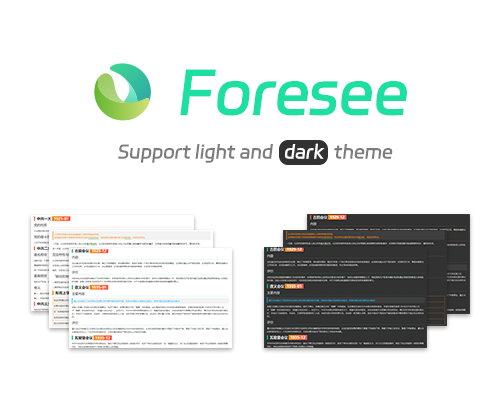
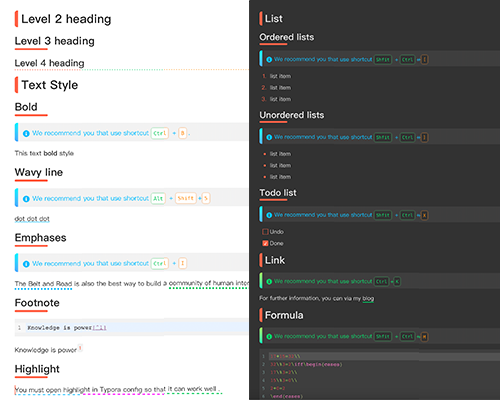
update Foresee Theme

diff --git a/_posts/theme/2023-12-04-Foresee.md b/_posts/theme/2023-12-04-Foresee.md
@@ -10,47 +10,27 @@ typora-root-url: ../../
 typora-copy-images-to: ../../media/theme/foresee
 ---
 
->此主题仅在Windows下设计和测试，在其他操作系统上的效果未知！
+>🇨🇳 此主题已在Mac和Windows平台上测试，支持浅色和深色模式<br>🇬🇧 This theme has been tested on Mac and Windows platforms,it supports light and dark mode
 
 # Typora foresee theme
 
[2 lines of base64/hex data omitted]
 
 ![](https://user-images.githubusercontent.com/90091016/271819148-aa5cd28e-6876-4729-9865-e29001e1147c.png)中文  |   ![](https://user-images.githubusercontent.com/90091016/271819155-72fe5b24-cd1c-4ceb-a32d-e559dbcaea63.png)[English](https://github.com/passwordgloo/Typora-foresee-theme/blob/study/Readme.md)
 
-## 感谢
+基于默认主题`night`修改
 
 选中样式受 [typora-dyzj-theme](https://github.com/muggledy/typora-dyzj-theme) 启发
 
-## 如何使用
-
-1. 克隆仓库,或者[下载压缩包](https://github.com/passwordgloo/Typora-foresee-theme/archive/refs/heads/study.zip)
-2. Typora依次打开菜单>主题，点击按钮`打开主题文件夹`
-3. 复制粘贴到Typora主题文件夹
-
-![9](https://github.com/passwordgloo/Typora-foresee-theme/assets/90091016/bd50a7be-217a-403a-bb6b-f8982fe38e17)
-![10](https://github.com/passwordgloo/Typora-foresee-theme/assets/90091016/d3c5bcae-bc1e-4f6d-b6a3-167a22ce0264)
-![11](https://github.com/passwordgloo/Typora-foresee-theme/assets/90091016/aa77d347-c6fe-4a54-b438-c3eabc0bad7e)
-![12](https://github.com/passwordgloo/Typora-foresee-theme/assets/90091016/8e9ded2c-f2de-45fb-8a25-e8bf11bdb7f4)
-![13](https://github.com/passwordgloo/Typora-foresee-theme/assets/90091016/966859b1-c8d4-4467-81b0-b50e5c180a65)
-![14](https://github.com/passwordgloo/Typora-foresee-theme/assets/90091016/d861568c-2f03-4dcd-b35d-85c2a184dcc6)
-![15](https://github.com/passwordgloo/Typora-foresee-theme/assets/90091016/053e137a-9865-4a95-9043-d69ef4338293)
-![16](https://github.com/passwordgloo/Typora-foresee-theme/assets/90091016/a8ea2431-cc1e-41de-b34c-b0321752a343)
-
-
-## 预览
-
-### 浅色模式
-
-![](https://user-images.githubusercontent.com/90091016/271819047-8310cd64-8baf-4310-a273-85c8a51d6305.png)
-
-### 深色模式
-
-![](https://user-images.githubusercontent.com/90091016/271819107-cd27fc6a-b813-41f0-b685-815630513b35.png)
+## 新功能
+- 引用块样式支持渐变色
+- 重新调整标题样式，添加专注模式下标题样式
+- 使用 `scss` 优化原先的 `css`
+- 在文件夹`badge`友情提供小图标
 
 ## 个性化
 
-修改XXX-light(dark).css文件中代码以获得个性化体验
+修改XXX-light(dark).css文件颜色代码制作自己的专属配色
 
 ```css
 :root {
@@ -68,6 +48,26 @@ typora-copy-images-to: ../../media/theme/foresee
     --font-family: "Microsoft YaHei", "Arial", "sans-serif";
 }
 ```
+
+## 如何使用
+
+1. 克隆仓库,或者[下载压缩包](https://github.com/passwordgloo/Typora-foresee-theme/archive/refs/heads/study.zip)，国内用户访问不畅可通过[镜像网站](https://gitee.com/passwordgloo/Typora-foresee-theme/repository/archive/study.zip)下载
+2. Typora依次打开菜单>主题，点击按钮`打开主题文件夹`
+3. 复制粘贴到Typora主题文件夹
+
+## 教程文档
+
+访问[wiki](https://github.com/passwordgloo/Typora-foresee-theme/wiki/中文教程)了解使用教程
+
+## 预览
+
+### 浅色模式
+
+![](https://github.com/passwordgloo/Typora-foresee-theme/assets/90091016/b5caf62b-6b51-4556-8b72-c66bc9f7378d)
+
+### 深色模式
+
+![](https://github.com/passwordgloo/Typora-foresee-theme/assets/90091016/221dc044-eaf5-48fe-94ab-1db05c180379)
 
 ## 项目用途
 
